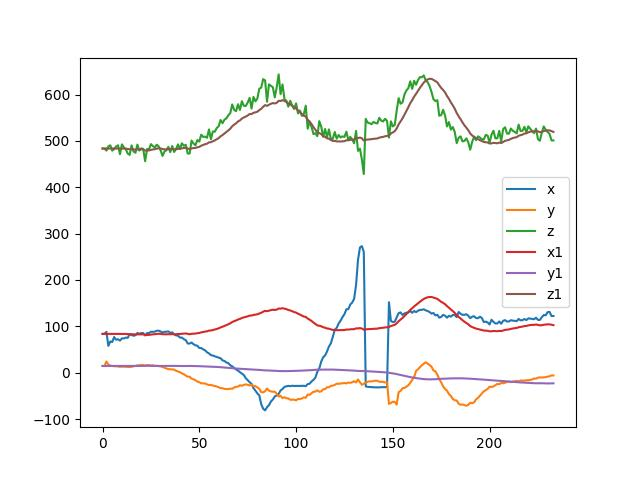
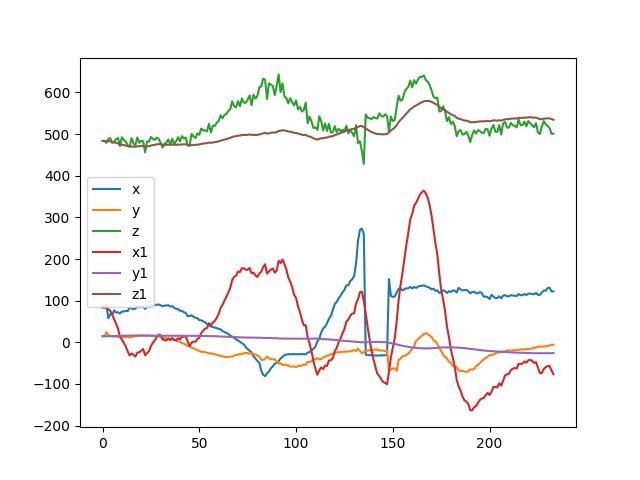
改正部分错误

diff --git a/testEKF.py b/testEKF.py
@@ -19,8 +19,8 @@ ptsInTripod = ptsInCam + np.array([0, 20, 10])
 yRotationMatrix = np.array([[math.cos(yaw),0,math.sin(yaw)],[0,1,0],[-math.sin(yaw),0,math.cos(yaw)]])
 xRotationMatrix = np.array([[1,0,0],[0,math.cos(pitch),-math.sin(pitch)],[0,math.sin(pitch),math.cos(pitch)]])
 
+# 云台坐标系->世界坐标系
 ptsInWorld = np.zeros((ptsInTripod.shape))
-
 i=0
 for single in ptsInTripod:
     single = np.reshape(single, (3,1))    
@@ -34,11 +34,14 @@ for i in range(ptsInWorld.shape[0]):
     x = ptsInCam[i,0]
     y = ptsInCam[i,1]
     z = ptsInCam[i,2]
-    alpha = math.tan(x/z)
-    beta = math.tan(y/z)
+    alpha = math.atan(x/z)
+    beta = math.atan(y/z)
     observation = [z, alpha, beta]
+    #print(observation)
 
     deltaTime = 0.03
+
+    # ?状态量里的速度怎么计算
 
     if ekf.first==False:
         state[1,0] = (ptsInWorld[i,0] - state[0,0])/deltaTime
@@ -47,9 +50,11 @@ for i in range(ptsInWorld.shape[0]):
     
     state[0,0] = ptsInWorld[i,0]
     state[2,0] = ptsInWorld[i,1]
-    state[4,0] = ptsInWorld[i,2]    
+    state[4,0] = ptsInWorld[i,2]
 
-    predictedPtsInWorld = ekf.step(deltaTime, [yaw,pitch], state, observation)
+    #print(state)    
+
+    predictedPtsInWorld = ekf.step(deltaTime, [yaw,pitch], state, observation, np.reshape(ptsInCam[i], (3,1)))
     ptsEKF[i] = predictedPtsInWorld.T
 
 

diff --git a/modules/ExtendKF.py b/modules/ExtendKF.py
@@ -42,7 +42,7 @@ class EKF():
 
         return Q, Rr
 
-    def step(self, deltaT, gesture, _state, observation):
+    def step(self, deltaT, gesture, _state, observation, ptsInCam):
         '''EKF更新一个周期。deltaT:时间差值,gesture:云台的yaw和pitch值,_state:当前时刻的状态量,observation:观测量z、α、β'''          
         # 创建状态转移方程中的系数矩阵
         fMatrix = np.eye(self.stateDimension) # 状态转移矩阵
@@ -53,7 +53,7 @@ class EKF():
             fMatrix[2*i, 2*i+1] = deltaT
             gammaMatrix[2*i, i] = deltaT*deltaT/2
             gammaMatrix[2*i+1, i] = deltaT       
-                
+
         # pridict:
         # 更新x_k
         if self.first:
@@ -89,7 +89,7 @@ class EKF():
         kGain = (self.pMatrix @ self.hMatrix.T) @ np.linalg.inv(self.hMatrix @ self.pMatrix @ self.hMatrix.T + self.rMatrix)
 
         # 更新状态量
-        self.state += kGain @ (self.hMatrix @ _state - self.hMatrix @ self.state)
+        self.state += kGain @ (ptsInCam - self.hMatrix @ self.state)
 
         # 更新p矩阵
         self.pMatrix = (np.eye(self.stateDimension) - kGain @ self.hMatrix) @ self.pMatrix
